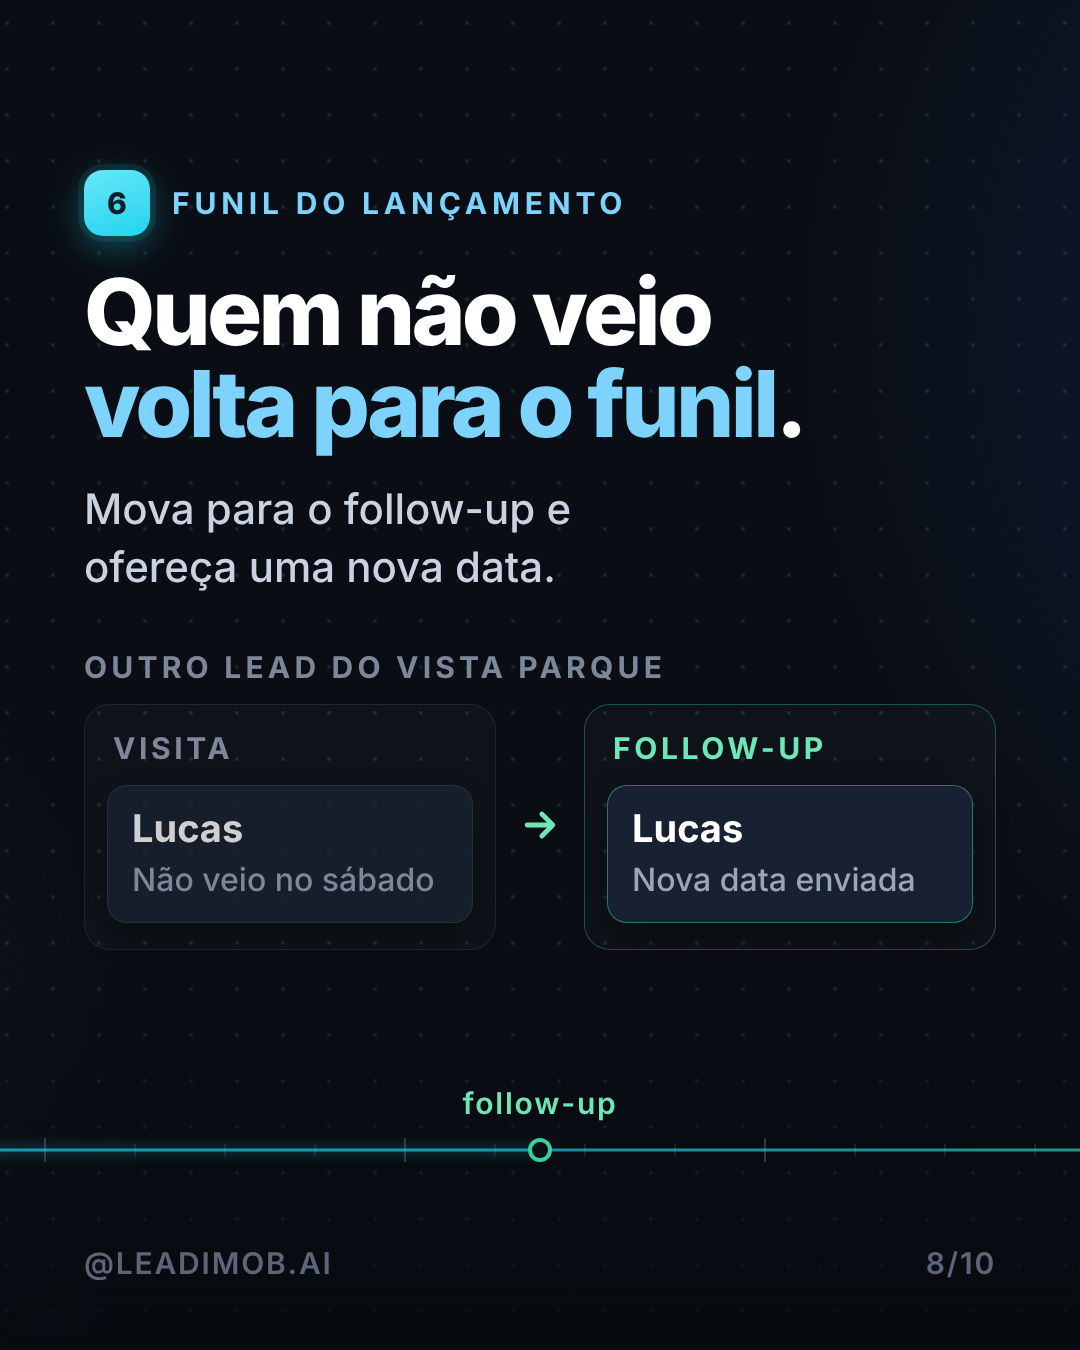
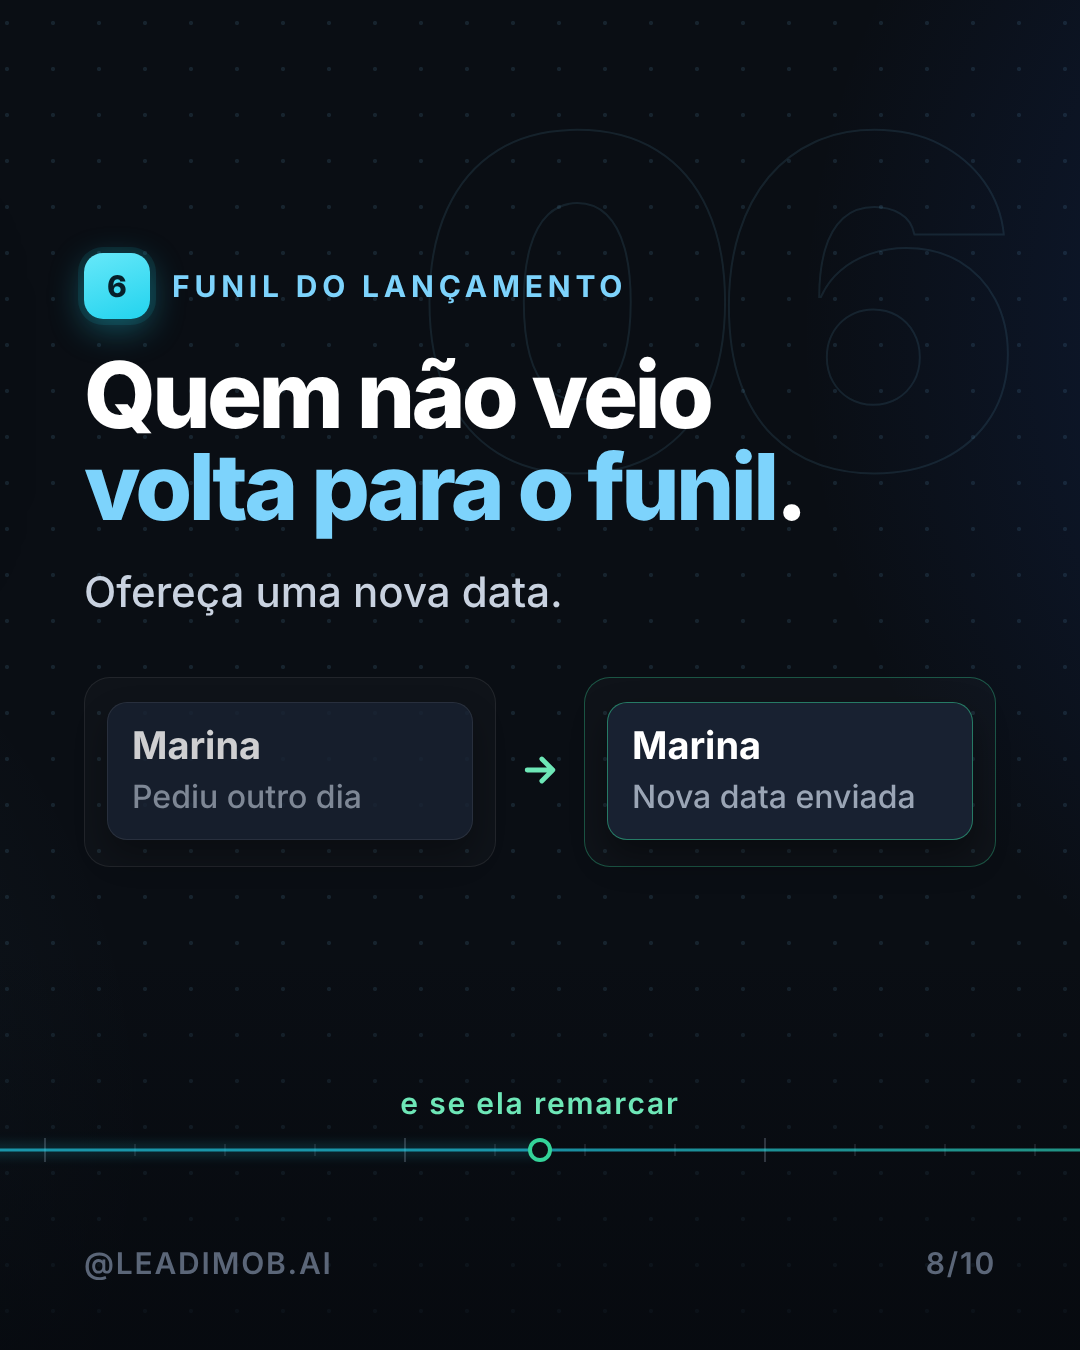
13/10: carrossel rodada 2 (leveza e continuidade), em crítica do corte final, sem aprovação
Claude-Session: https://claude.ai/code/session_01NWcxMy89PTCVaJ3sBxJeMq

diff --git a/instagram/2026-10-13/src/c1-index.html b/instagram/2026-10-13/src/c1-index.html
@@ -56,7 +56,7 @@ body{background:#0A0E14;width:10800px;height:1350px;overflow:hidden;font-family:
 .h2{font-size:92px;line-height:1.0}
 .p{font-size:42px;margin-top:30px;text-wrap:balance}
 .h2{text-wrap:balance}
-.ghost{font-size:600px;right:40px;top:40px;-webkit-text-stroke:2px rgba(125,211,252,.10)}
+.ghost{font-size:460px;line-height:1;right:84px;top:72px;-webkit-text-stroke:2px rgba(125,211,252,.10)}
 .art{margin-top:56px}
 .row{display:flex;align-items:center;gap:22px}
 .ico{width:72px;height:72px;border-radius:20px;display:flex;align-items:center;justify-content:center;flex:none;background:rgba(125,211,252,.10);border:1.5px solid rgba(125,211,252,.28)}
@@ -121,6 +121,7 @@ body{background:#0A0E14;width:10800px;height:1350px;overflow:hidden;font-family:
 
 <!-- 3 prática 1: origem -->
 <div class="sl" style="left:2160px">
+ <div class="ghost" style="top:72px">01</div>
  <div class="ttl"><div class="num">1</div><div class="kick">De onde ele veio</div></div>
  <div class="h2">Saiba de qual <span class="hl">lançamento</span> é o lead.</div>
  <div class="p">A resposta certa depende do anúncio.</div>
@@ -133,6 +134,7 @@ body{background:#0A0E14;width:10800px;height:1350px;overflow:hidden;font-family:
 
 <!-- 4 prática 2: planta do catálogo (layout invertido) -->
 <div class="sl" style="left:3240px">
+ <div class="ghost" style="top:72px">02</div>
  <div class="wa" style="padding:30px 34px">
   <div class="bub bout" style="max-width:820px;padding:12px 12px 14px;font-size:38px">
    <div style="border-radius:16px;background:#ECF6F9;width:796px;padding:18px 18px 14px;display:flex;justify-content:center">
@@ -166,20 +168,21 @@ body{background:#0A0E14;width:10800px;height:1350px;overflow:hidden;font-family:
 
 <!-- 5 prática 3: qualificação -->
 <div class="sl" style="left:4320px">
+ <div class="ghost" style="top:72px">03</div>
  <div class="ttl"><div class="num">3</div><div class="kick">Qualificação</div></div>
  <div class="h2">Entenda o <span class="hl">perfil</span> na conversa.</div>
  <div class="p">O corretor chega sabendo o que importa.</div>
  <div class="art">
-  <div class="lab" style="margin-bottom:26px">Perfil da Marina</div>
   <div style="display:inline-flex;align-items:center;gap:22px;padding:26px 44px 26px 34px;border-radius:999px;background:rgba(52,211,153,.12);border:2px solid rgba(52,211,153,.75);box-shadow:0 0 0 8px rgba(52,211,153,.06),0 30px 60px rgba(0,0,0,.45)"><i style="width:26px;height:26px;border-radius:50%;background:#34D399;display:block;box-shadow:0 0 18px rgba(52,211,153,.7)"></i><span style="font:800 64px/1 IN;letter-spacing:-.02em;color:#fff">Quente</span></div>
   <div style="display:flex;flex-wrap:wrap;gap:16px;margin-top:30px">
-   <span class="chip nt" style="font-size:34px;padding:18px 28px">Para morar</span><span class="chip nt" style="font-size:34px;padding:18px 28px">Até a entrega</span><span class="chip nt" style="font-size:34px;padding:18px 28px">Financiamento</span>
+   <span class="chip nt" style="font-size:34px;padding:18px 28px">Para morar</span><span class="chip nt" style="font-size:34px;padding:18px 28px">Financiamento</span>
   </div>
  </div>
  <div class="foot"><span>@LEADIMOB.AI</span><span>5/10</span></div></div>
 
 <!-- 6 prática 4: agenda do plantão -->
 <div class="sl" style="left:5400px">
+ <div class="ghost" style="top:560px">04</div>
  <div class="ttl"><div class="num">4</div><div class="kick">Visita no plantão</div></div>
  <div class="h2">Ofereça o horário <span class="hl">na mesma conversa</span>.</div>
  <div class="p">Quem escolhe o horário já se comprometeu.</div>
@@ -196,26 +199,28 @@ body{background:#0A0E14;width:10800px;height:1350px;overflow:hidden;font-family:
 
 <!-- 7 prática 5: resumo para o corretor (layout invertido) -->
 <div class="sl" style="left:6480px">
+ <div class="ghost" style="top:420px">05</div>
  <div class="push">
   <div class="row" style="gap:18px"><div class="app" style="background:linear-gradient(160deg,#67E8F9,#22D3EE)"><svg width="32" height="32" viewBox="0 0 24 24"><path d="M12 3c5 0 9 3.600 9 8.200S17 19.500 12 19.500c-1 0-2-.15-2.900-.42L4.500 21l1.200-3.900C4 15.600 3 13.500 3 11.200 3 6.600 7 3 12 3z" fill="#06202A"/></svg></div><span style="font:600 30px/1 IN;color:#9AA5B5;letter-spacing:.06em">LEADIMOB</span><span style="margin-left:auto;font:600 30px/1 IN;color:#9AA5B5">08:50</span></div>
   <div style="font:700 42px/1.2 IN;margin-top:24px">Visita sábado, 11h · Marina</div>
-  <div style="font:500 36px/1.35 IN;color:#C9D2E0;margin-top:10px">Vista Parque · 2 quartos · morar · financiamento</div>
+  <div style="font:500 36px/1.35 IN;color:#C9D2E0;margin-top:10px">Vista Parque · 2 quartos · financiamento</div>
  </div>
  <div class="ttl" style="margin-top:64px"><div class="num">5</div><div class="kick">Para o corretor</div></div>
- <div class="h2">Passe o <span class="hl">resumo</span> para quem está no plantão.</div>
+ <div class="h2">Passe o <span class="hl">resumo</span><br>ao plantão.</div>
  <div class="p">Ninguém pergunta tudo de novo.</div>
  <div class="foot"><span>@LEADIMOB.AI</span><span>7/10</span></div></div>
 
 <!-- 8 prática 6: quem não veio volta para o funil -->
 <div class="sl" style="left:7560px">
+ <div class="ghost" style="top:72px">06</div>
  <div class="ttl"><div class="num">6</div><div class="kick">Funil do lançamento</div></div>
  <div class="h2">Quem não veio <span class="hl">volta para o funil</span>.</div>
- <div class="p">Mova para o follow-up e ofereça uma nova data.</div>
- <div class="art"><div class="lab" style="margin-bottom:22px">Outro lead do Vista Parque</div>
+ <div class="p">Ofereça uma nova data.</div>
+ <div class="art">
  <div style="display:flex;gap:22px;align-items:stretch">
-  <div class="col"><h4>Visita</h4><div class="kc" style="opacity:.8"><b>Lucas</b><span style="font-size:32px">Não veio no sábado</span></div></div>
+  <div class="col"><div class="kc" style="opacity:.8"><b>Marina</b><span style="font-size:32px">Pediu outro dia</span></div></div>
   <div style="align-self:center;flex:none"><svg width="44" height="44" viewBox="0 0 24 24"><path d="M5 12h13M13 6l6 6-6 6" stroke="#6EE7B7" stroke-width="2.6" fill="none" stroke-linecap="round" stroke-linejoin="round"/></svg></div>
-  <div class="col" style="border-color:rgba(52,211,153,.35)"><h4 style="color:#6EE7B7">Follow-up</h4><div class="kc" style="border-color:rgba(52,211,153,.5)"><b>Lucas</b><span style="font-size:32px">Nova data enviada</span></div></div>
+  <div class="col" style="border-color:rgba(52,211,153,.35)"><div class="kc" style="border-color:rgba(52,211,153,.5)"><b>Marina</b><span style="font-size:32px">Nova data enviada</span></div></div>
  </div></div>
  <div class="foot"><span>@LEADIMOB.AI</span><span>8/10</span></div></div>
 
@@ -224,13 +229,10 @@ body{background:#0A0E14;width:10800px;height:1350px;overflow:hidden;font-family:
  <div class="ttl"><div class="num"><svg width="34" height="34" viewBox="0 0 24 24"><path d="M12 3c5 0 9 3.600 9 8.200S17 19.500 12 19.500c-1 0-2-.15-2.900-.42L4.500 21l1.200-3.900C4 15.600 3 13.500 3 11.200 3 6.600 7 3 12 3z" fill="#06202A"/></svg></div><div class="kick">A noite com a Leadimob</div></div>
  <div class="h2">A Leadimob atende <span style="color:#6EE7B7">quando o plantão fecha</span>.</div>
  <div class="art" style="position:relative;padding-left:70px">
-  <div style="position:absolute;left:21px;top:20px;bottom:24px;width:3px;border-radius:2px;background:linear-gradient(180deg,rgba(34,211,238,.75),rgba(52,211,153,.85))"></div>
-  <div class="nt-row" style="position:relative;font:700 30px/1 IN;letter-spacing:.14em;color:#7C8799;margin-bottom:26px">22:40 · NA MESMA NOITE</div>
-  <div class="ev2"><i class="nd"></i>Responde com o catálogo</div>
+  <div style="position:absolute;left:21px;top:21px;bottom:21px;width:3px;border-radius:2px;background:linear-gradient(180deg,rgba(34,211,238,.75),rgba(52,211,153,.85))"></div>
+  <div class="ev2"><i class="nd"></i>Responde com a planta</div>
   <div class="ev2"><i class="nd"></i>Qualifica o perfil</div>
-  <div class="ev2"><i class="nd"></i>Agenda a visita no plantão</div>
-  <div class="nt-row" style="position:relative;font:700 30px/1 IN;letter-spacing:.14em;color:#7C8799;margin:34px 0 26px">08:50</div>
-  <div class="ev2" style="margin-bottom:0"><i class="nd g"></i>Chama o corretor com o resumo</div>
+  <div class="ev2" style="margin-bottom:0"><i class="nd g"></i>Agenda a visita no plantão</div>
  </div>
  <div class="foot"><span>@LEADIMOB.AI</span><span>9/10</span></div></div>
 
@@ -277,7 +279,7 @@ body{background:#0A0E14;width:10800px;height:1350px;overflow:hidden;font-family:
  dot(1620,'#F59E0B',9); lab(1620,'22:40','#7C8799');
  const C='#A5F3FC', mk=[[2,'lead novo'],[3,'planta enviada'],[4,'perfil'],[5,'visita marcada'],[6,'08:50 · corretor avisado']];
  mk.forEach(([i,t])=>{const x=i*1080+540;dot(x,'#22D3EE');lab(x,t,C)});
- dot(7*1080+540,'#34D399'); lab(7*1080+540,'follow-up','#6EE7B7'); dot(8*1080+540,'#34D399'); lab(8*1080+540,'a noite inteira','#6EE7B7');
+ dot(7*1080+540,'#34D399'); lab(7*1080+540,'e se ela remarcar','#6EE7B7'); dot(8*1080+540,'#34D399'); lab(8*1080+540,'a noite inteira','#6EE7B7');
  el('circle',{cx:10260,cy:Y,r:13,fill:'#34D399'}); lab(10260,'09:00','#E2E8F0','<svg width="28" height="28" viewBox="0 0 24 24" fill="none" stroke="#E2E8F0" stroke-width="2.2" stroke-linecap="round"><circle cx="12" cy="12" r="4"/><path d="M12 2v2M12 20v2M4.900 4.900l1.400 1.400M17.700 17.700l1.400 1.400M2 12h2M20 12h2M4.900 19.100l1.400-1.400M17.700 6.300l1.400-1.400"/></svg>');
 })();
 window.ready=document.fonts.ready.then(()=>Promise.all(['400 20px IN','500 20px IN','600 20px IN','700 20px IN','800 20px IN','900 20px IN'].map(f=>document.fonts.load(f)))).then(()=>Promise.all([...document.images].map(i=>i.decode().catch(()=>0)))).then(()=>new Promise(r=>setTimeout(r,300)));

diff --git a/instagram/2026-10-13/carrossel/carrossel-editor.html b/instagram/2026-10-13/carrossel/carrossel-editor.html
@@ -312,7 +312,7 @@ input[type=range]{width:100%;accent-color:#6C5CE7;height:18px;cursor:pointer;}
     </div>
   </div>
 </div>
-<script id="deck-data" type="application/json">{"kit": "tech", "formato": "4:5", "paleta": {"bg": "#0A0E14", "fg": "#FFFFFF", "muted": "#8A93A3", "accent": "#22D3EE", "surface": "#141B28", "cream": "#F3F7FB"}, "handle": "@leadimob.ai", "slides": [{"tipo": "capa", "kicker": "LANÇAMENTO · SALVE ESTE POST", "titulo": "O plantão fecha. O anúncio, não.", "sub": "Como não perder o lead do lançamento que chega à noite."}, {"tipo": "conteudo", "kicker": "O PROBLEMA", "titulo": "A pergunta da noite espera até amanhã.", "sub": "O anúncio roda o dia todo. O plantão tem horário."}, {"tipo": "conteudo", "kicker": "1 · DE ONDE ELE VEIO", "titulo": "Saiba de qual lançamento é o lead.", "sub": "A resposta certa depende do anúncio."}, {"tipo": "conteudo", "kicker": "2 · FORA DO HORÁRIO", "titulo": "Responda com a planta do catálogo.", "sub": "Informação real, na hora da dúvida."}, {"tipo": "conteudo", "kicker": "3 · QUALIFICAÇÃO", "titulo": "Entenda o perfil na conversa.", "sub": "O corretor chega sabendo o que importa."}, {"tipo": "conteudo", "kicker": "4 · VISITA NO PLANTÃO", "titulo": "Ofereça o horário na mesma conversa.", "sub": "Quem escolhe o horário já se comprometeu."}, {"tipo": "conteudo", "kicker": "5 · PARA O CORRETOR", "titulo": "Passe o resumo para quem está no plantão.", "sub": "Ninguém pergunta tudo de novo."}, {"tipo": "conteudo", "kicker": "6 · FUNIL DO LANÇAMENTO", "titulo": "Quem não veio volta para o funil.", "sub": "Mova para o follow-up e ofereça uma nova data."}, {"tipo": "conteudo", "kicker": "A NOITE COM A LEADIMOB", "titulo": "A Leadimob atende quando o plantão fecha.", "sub": "Na mesma noite: responde com o catálogo, qualifica o perfil e agenda a visita no plantão. Às 08:50, chama o corretor com o resumo."}, {"tipo": "cta", "kicker": "SUA VEZ", "titulo": "Quem atende o seu lançamento à noite?", "sub": "Comente LANÇAMENTO e conte como o seu time faz hoje. Solicite uma demonstração — link na bio."}]}</script>
+<script id="deck-data" type="application/json">{"kit": "tech", "formato": "4:5", "paleta": {"bg": "#0A0E14", "fg": "#FFFFFF", "muted": "#8A93A3", "accent": "#22D3EE", "surface": "#141B28", "cream": "#F3F7FB"}, "handle": "@leadimob.ai", "slides": [{"tipo": "capa", "kicker": "LANÇAMENTO · SALVE ESTE POST", "titulo": "O plantão fecha. O anúncio, não.", "sub": "Como não perder o lead do lançamento que chega à noite."}, {"tipo": "conteudo", "kicker": "O PROBLEMA", "titulo": "A pergunta da noite espera até amanhã.", "sub": "O anúncio roda o dia todo. O plantão tem horário."}, {"tipo": "conteudo", "kicker": "1 · DE ONDE ELE VEIO", "titulo": "Saiba de qual lançamento é o lead.", "sub": "A resposta certa depende do anúncio."}, {"tipo": "conteudo", "kicker": "2 · FORA DO HORÁRIO", "titulo": "Responda com a planta do catálogo.", "sub": "Informação real, na hora da dúvida."}, {"tipo": "conteudo", "kicker": "3 · QUALIFICAÇÃO", "titulo": "Entenda o perfil na conversa.", "sub": "O corretor chega sabendo o que importa."}, {"tipo": "conteudo", "kicker": "4 · VISITA NO PLANTÃO", "titulo": "Ofereça o horário na mesma conversa.", "sub": "Quem escolhe o horário já se comprometeu."}, {"tipo": "conteudo", "kicker": "5 · PARA O CORRETOR", "titulo": "Passe o resumo ao plantão.", "sub": "Ninguém pergunta tudo de novo."}, {"tipo": "conteudo", "kicker": "6 · FUNIL DO LANÇAMENTO", "titulo": "Quem não veio volta para o funil.", "sub": "Ofereça uma nova data."}, {"tipo": "conteudo", "kicker": "A NOITE COM A LEADIMOB", "titulo": "A Leadimob atende quando o plantão fecha.", "sub": "Na mesma noite: responde com a planta, qualifica o perfil e agenda a visita no plantão."}, {"tipo": "cta", "kicker": "SUA VEZ", "titulo": "Quem atende o seu lançamento à noite?", "sub": "Comente LANÇAMENTO e conte como o seu time faz hoje. Solicite uma demonstração — link na bio."}]}</script>
 <script>
 const KITS = {
   "editorial":     {disp:"Anton", body:"Inter", mono:"JetBrains Mono", serif:"Instrument Serif",
